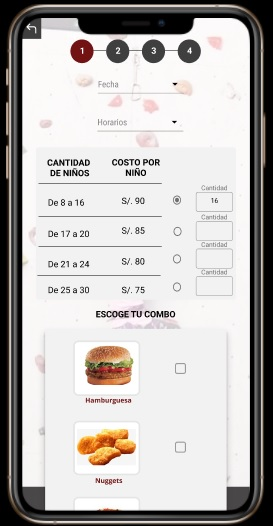
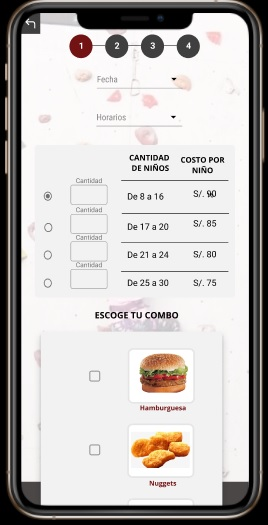
actualizado figma

Changed region(s): [[0.0, 0.0, 1.0, 1.0], [0.6866, 0.2743, 0.8657, 0.5486], [0.1493, 0.2133, 0.209, 0.2438]]

diff --git a/README.md b/README.md
@@ -196,10 +196,10 @@ RESULTADOS:
 * Como mejora indicaron que deberia haber más información donde se muestre que la temática es escalada (fotos, videos).
 
 #### Prototipado de alta fidelidad
-![image](https://github.com/MelissaCcoyllo/lim011-small-businesses/blob/pirqateam/Imagenes/Prototipadofigma.jpg)
+![image]()
 #### User testing
 
 ## 5. Conclusiones
 ## 6. Enlaces
 * [Carpeta de Drive compartido](https://drive.google.com/drive/folders/1Ar3P8PT4rc6GE4cbh7sH1OtE2qIi6WX2)
-* [Prototipado en figma](https://www.figma.com/proto/DIUJdjtflJXHw2Ak3iqZtK/Vista-movil-pirqa-market-place?node-id=32%3A6&scaling=scale-down)
+* [Prototipado en figma](https://www.figma.com/proto/V7A7RYwoaKxgFwk96jjYde/Vista-Movil-Pirqa-Market-place-Copy?node-id=181%3A1216&scaling=scale-down)
